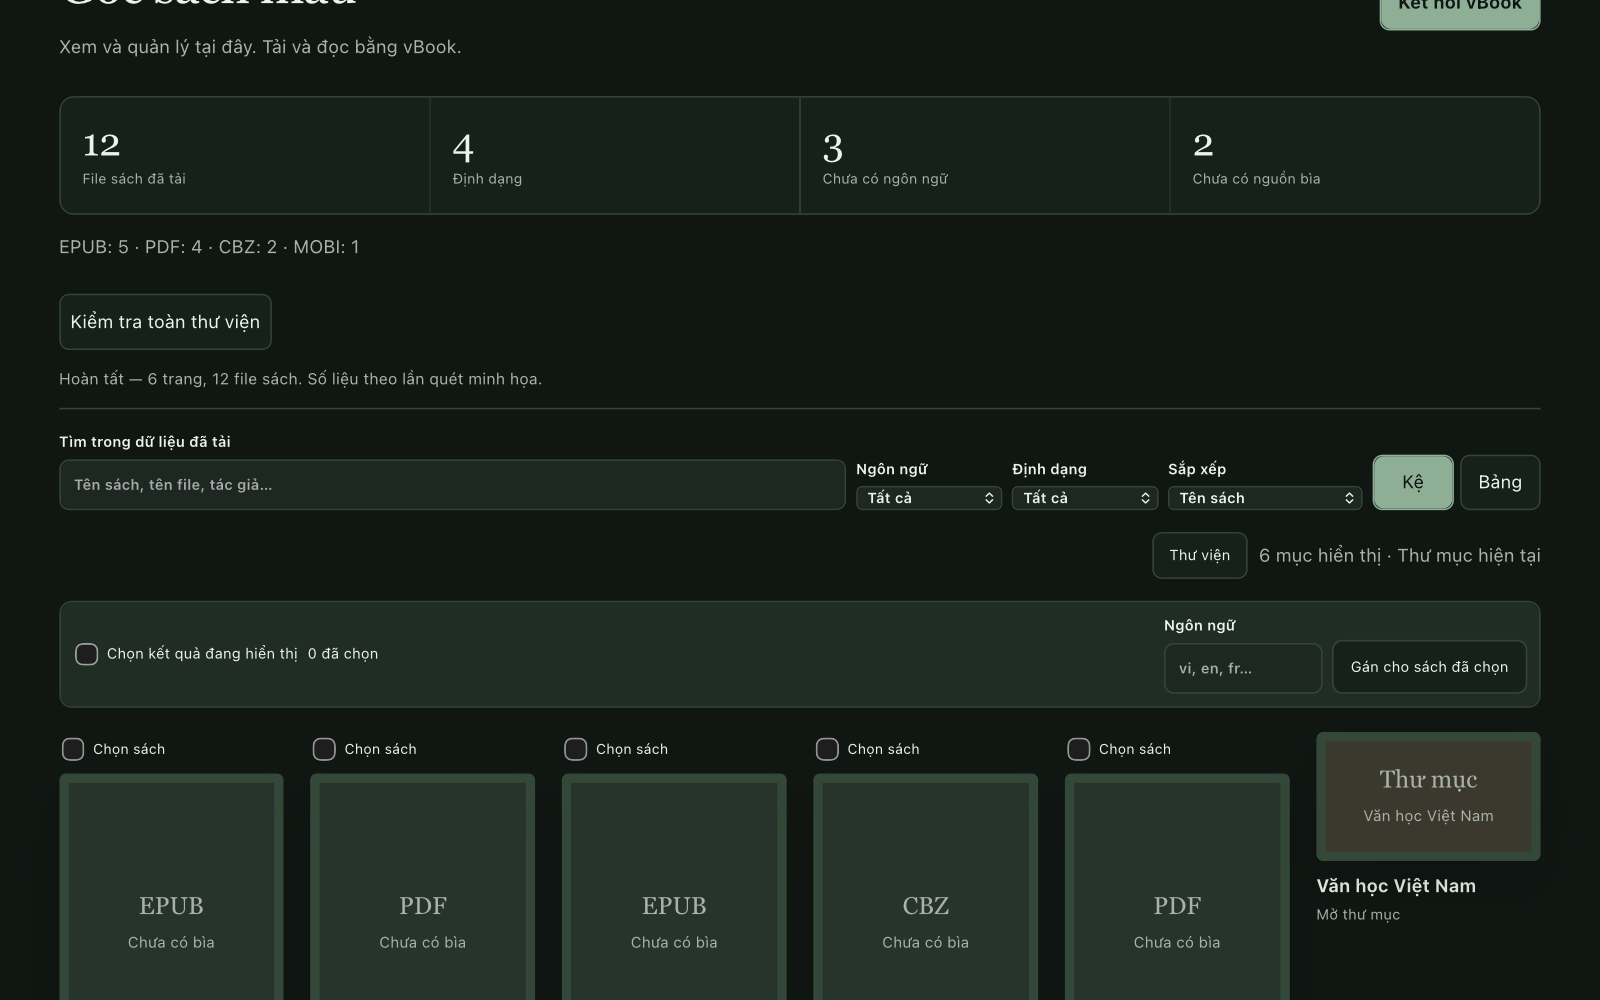
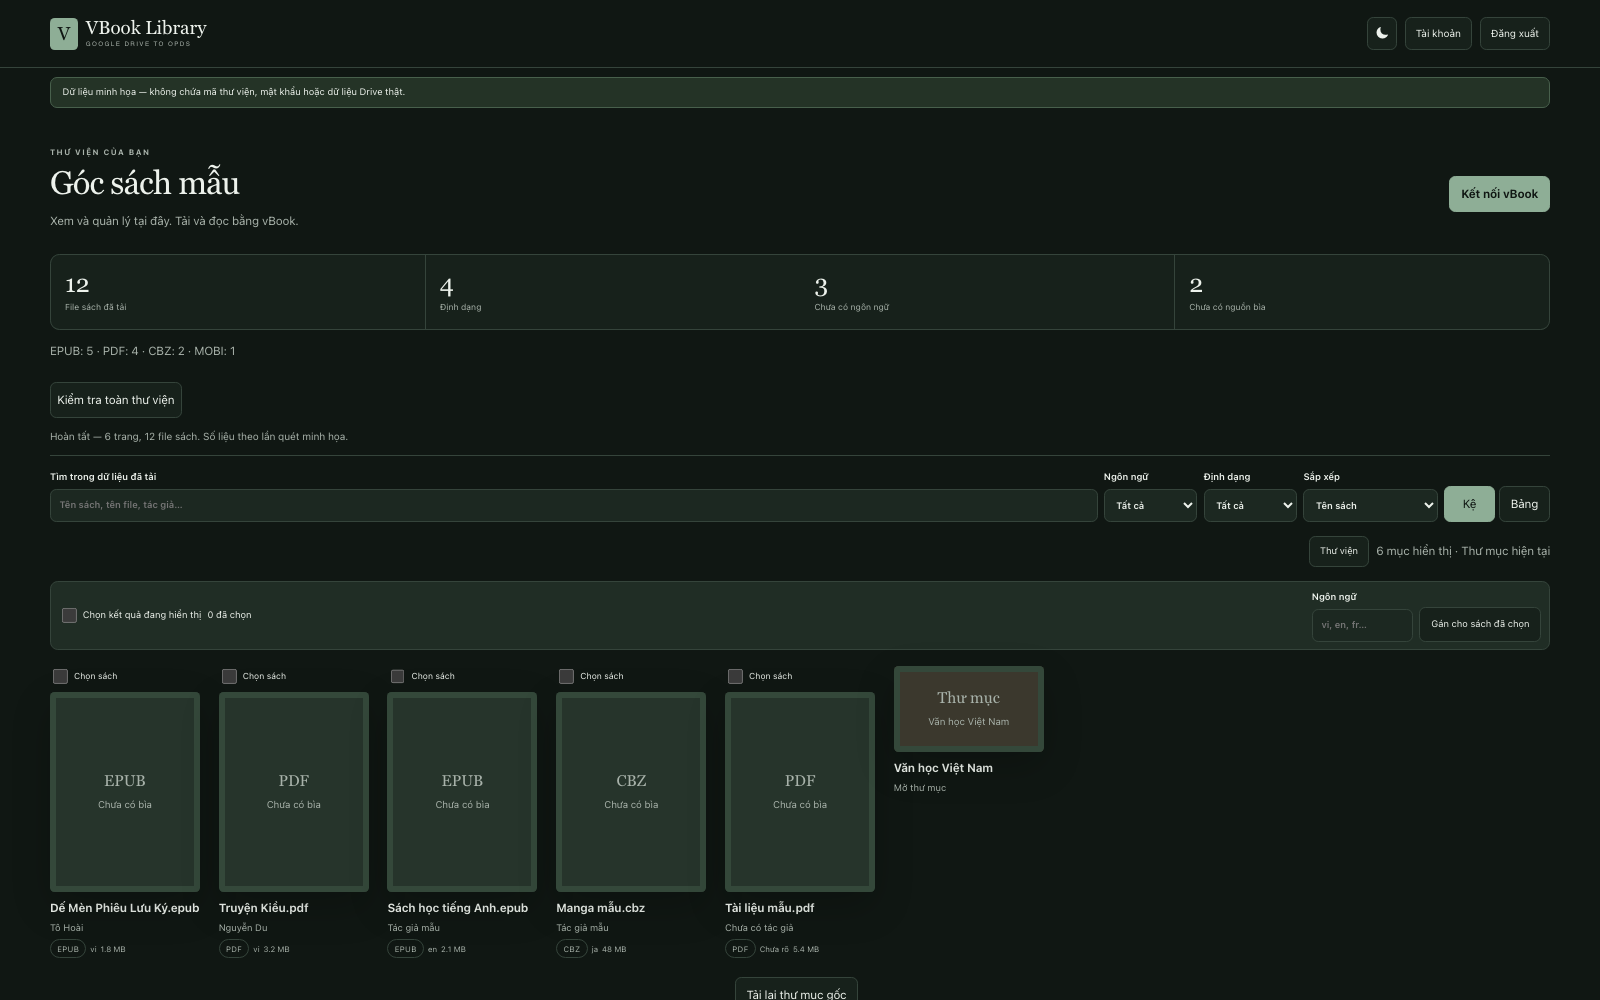
fix: use full desktop width

diff --git a/src/library-ui.ts b/src/library-ui.ts
@@ -351,8 +351,9 @@ hr { margin: 24px 0; border: 0; border-top: 1px solid var(--line); }
 }
 
 @media (min-width: 1100px) {
-  .wrap { padding-inline: 40px; }
+  .wrap { max-width: none; padding-inline: clamp(40px, 4vw, 72px); }
   .hero { gap: 72px; }
+  .entry-panel { max-width: none; padding: 32px; }
   .books { grid-template-columns: repeat(auto-fill, minmax(175px, 1fr)); gap: 34px 24px; }
 }
 
